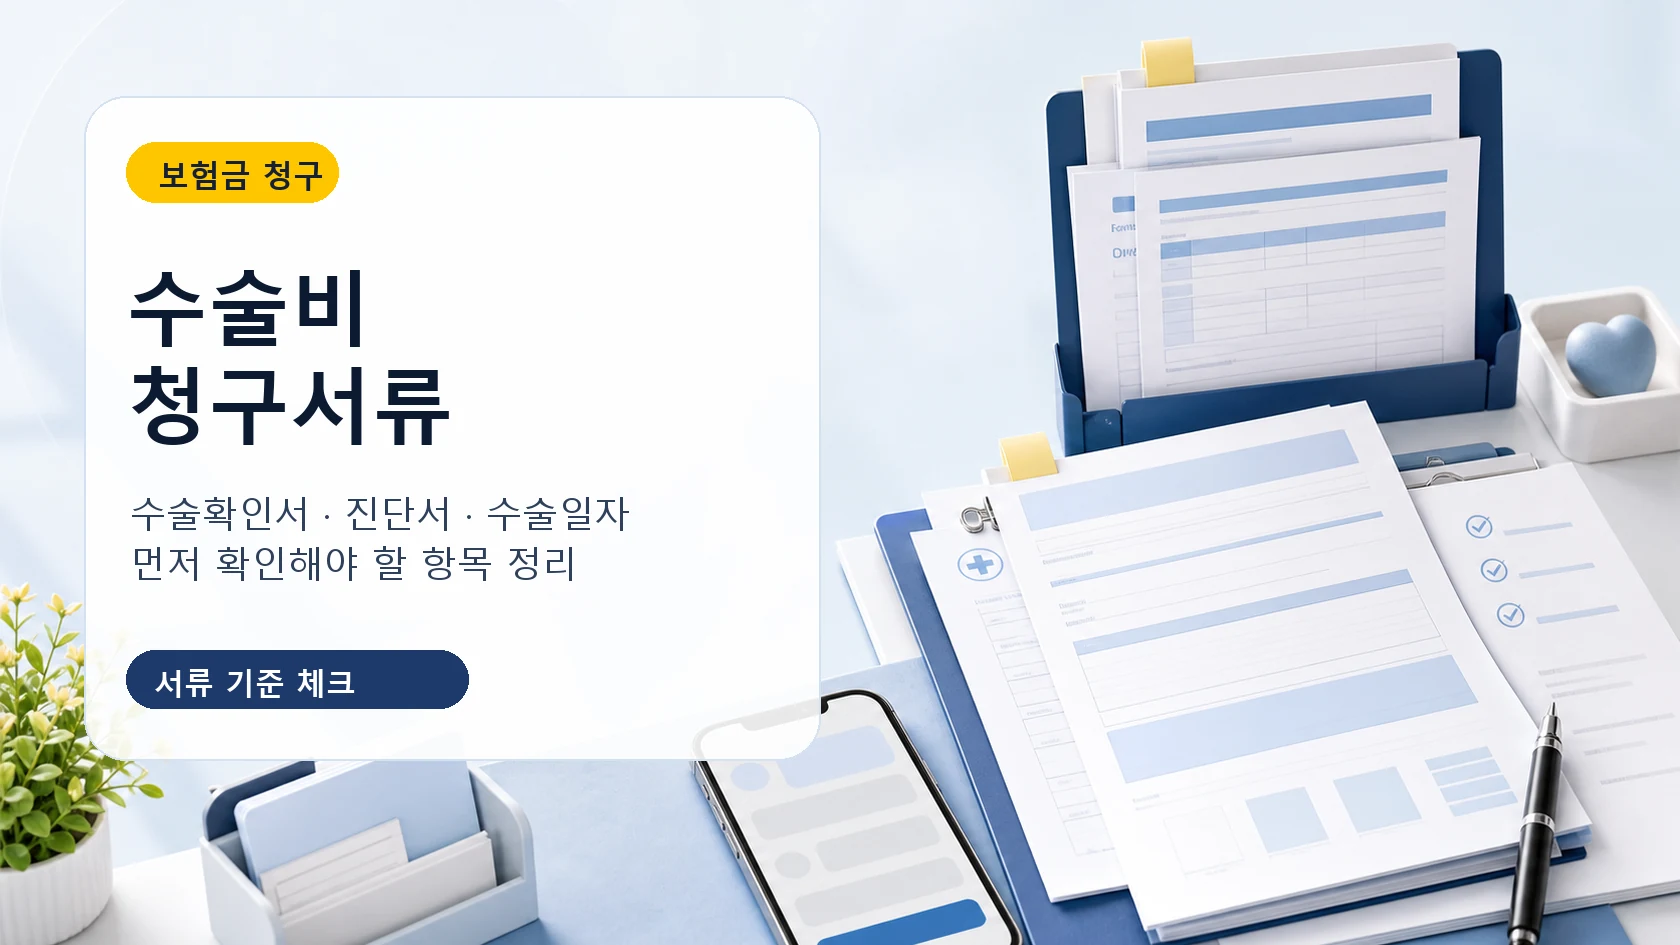
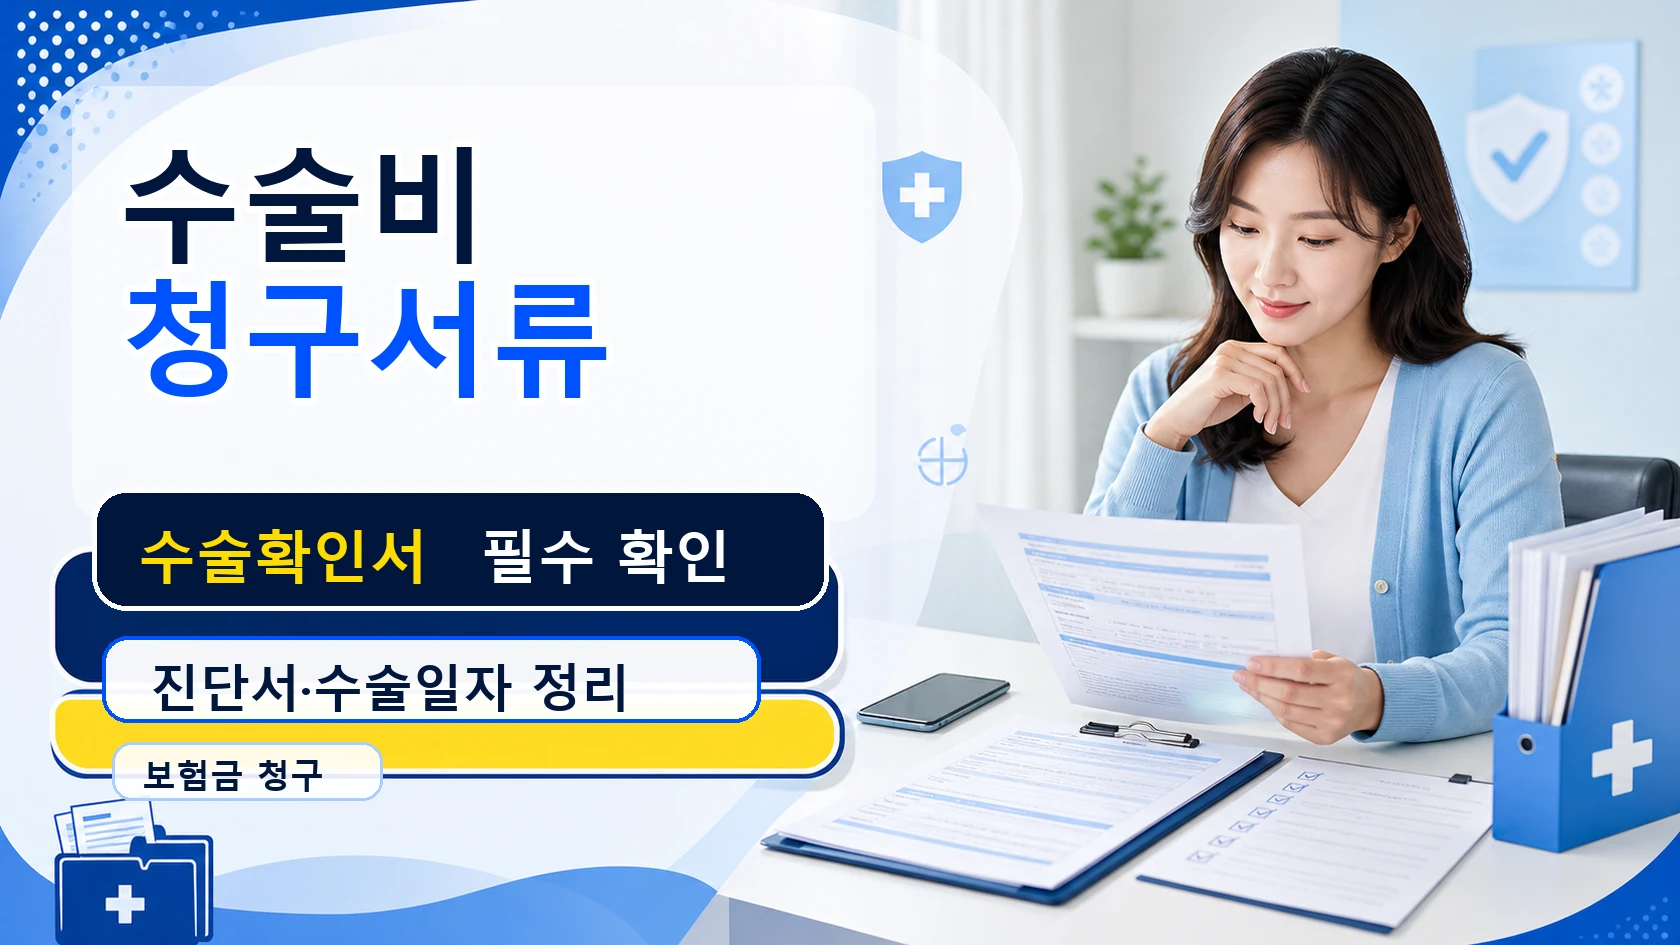
Refine article thumbnail style

diff --git a/docs/POSTING_GUIDELINES.md b/docs/POSTING_GUIDELINES.md
@@ -207,6 +207,9 @@
 - 본문 이미지 2장: 글의 핵심 내용을 이해하는 데 도움이 되는 장면형 이미지로 배치합니다.
 - 썸네일은 검색 결과와 카드 목록에서 주제가 바로 보이도록 메인 키워드를 중심으로 구성합니다.
 - 썸네일 문구는 짧고 명확하게 쓰며, 긴 문장이나 작은 글씨를 넣지 않습니다.
+- 카드뉴스형 썸네일은 왼쪽에 큰 키워드형 제목, 오른쪽에 실제 상황 이미지, 하단에 짧은 보조 문구를 두는 구성을 우선합니다.
+- 색상은 진한 남색, 선명한 파란색, 흰색, 노란색 포인트를 중심으로 사용해 검색 결과에서 눈에 띄게 만듭니다.
+- 제목 글자는 굵고 크게 배치하고, 흰색 외곽선이나 밝은 패널을 사용해 모바일에서도 읽히게 만듭니다.
 - 본문 이미지는 같은 이미지를 반복하지 않고, 글의 흐름에 맞춰 서로 다른 장면으로 만듭니다.
 - 보험금 청구 글은 서류 확인, 병원 영수증, 모바일 청구, 상담 전 준비 장면처럼 실제 행동이 떠오르는 이미지를 우선합니다.
 - 의료·치료비 글은 검사 준비, 진료 기록 확인, 치료비 항목 확인처럼 정보 이해에 도움이 되는 장면을 사용합니다.
